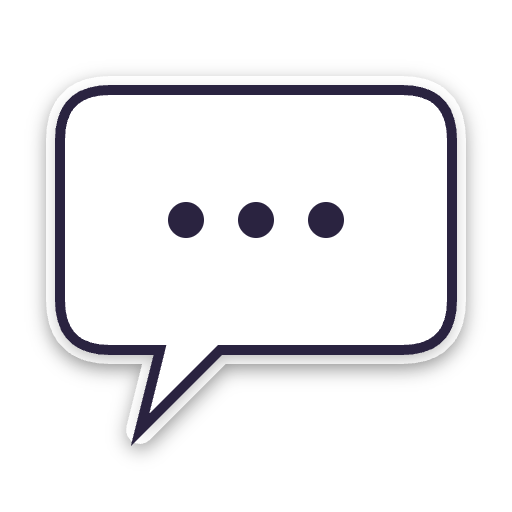
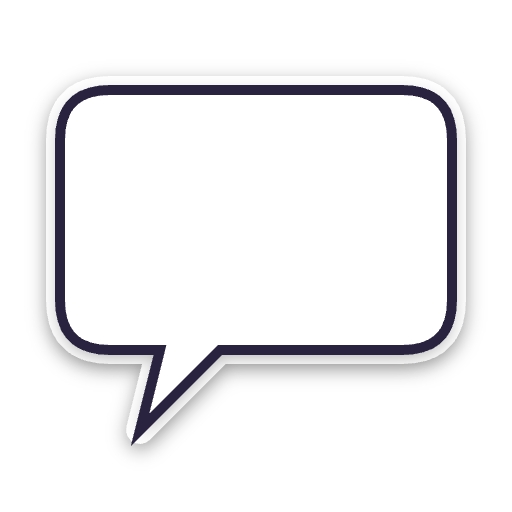
Library: drop the items sorted out, fix two stickers, neon heart without its stand
Removed from the list (files stay, scenes and tests still use some): the six originals, the video loops,
the made-in-code models, 7 floating effects, 4 Poly Haven models and 20 of the dancing creatures.
Speech bubble without the three dots; butterfly with antennae; neon heart is the pink tube alone.

Changed region(s): [[0.5938, 0.375, 0.6875, 0.4688], [0.3125, 0.375, 0.4062, 0.4688], [0.4688, 0.375, 0.5312, 0.4688]]

diff --git a/studio/library.js b/studio/library.js
@@ -1,31 +1,22 @@
 /* Starter library. Selection copies an asset into the current local experience, so export/import does not
-   depend on a future catalog fetch. Groups: the original items, CC0 3D models from Poly Haven (packed to
+   depend on a future catalog fetch. Groups: CC0 3D models from Poly Haven (packed to
    GLB at 1K textures), animated CC0 models by Quaternius, particle styles and stickers drawn in code
-   (tools/make-graphics.cjs), video loops rendered from the user's own Styles studio (720×720, with music), and
-   floating light effects drawn in code on black (tools/make-effects.cjs), added with the soft black (glow) key.
+   (tools/make-graphics.cjs), ready scenes, and floating, weather and cosmic effects as 3D models.
    Credits and sources: library/README.md. */
 window.StarterLibrary = (() => {
-  const originals = [
-    {id:'star',name:'כוכב זהוב',detail:'תמונה שקופה · PNG',kind:'image',file:'star.png',thumb:'star.png'},
-    {id:'ring',name:'טבעת סגולה',detail:'תמונה שקופה · PNG',kind:'image',file:'ring.png',thumb:'ring.png'},
-    {id:'pulse',name:'טבעת פועמת',detail:'אנימציה שקופה · GIF',kind:'image',file:'pulse.gif',thumb:'pulse.gif'},
-    {id:'bell',name:'פעמון עדין',detail:'צליל מקורי · 1.2 שניות',kind:'sound',file:'bell.wav',icon:'♪'},
-    {id:'orbit',name:'מסלול אור',detail:'סרטון מקורי · 2 שניות · ללא צליל',kind:'video',file:'orbit.mp4',thumb:'orbit-poster.png'},
-    {id:'gem',name:'אבן סגולה',detail:'תלת-ממד · GLB',kind:'model',file:'gem.glb',icon:'◇'}
-  ].map((e) => ({...e, group:'original'}));
   // Poly Haven (CC0): [file id, Hebrew name]
   // Poly Haven models, each with its own looping move added in Blender (tools/make-ph-loops.py) - a rocking chair
   // rocks, clock hands tick, a kettle steams - except the frame, which holds the user's artwork and stays still
   const STILL = new Set(['fancy_picture_frame_01']);
   const ANIMAL = new Set(['street_rat']);  // listed with the animals
   const models = [
-    ['fancy_picture_frame_01','מסגרת מוזהבת מעוטרת'],['ornate_mirror_01','מראה מעוטרת'],['marble_bust_01','פסל ראש משיש'],
+    ['fancy_picture_frame_01','מסגרת מוזהבת מעוטרת'],['marble_bust_01','פסל ראש משיש'],
     ['horse_statue_01','פסל סוס'],['concrete_cat_statue','פסל חתול מבטון'],['carved_wooden_elephant','פיל מגולף מעץ'],
     ['garden_gnome','גמד גינה'],['rubber_duck_toy','ברווז גומי'],['lantern_01','פנס ישן'],['wooden_lantern_01','פנס עץ'],
     ['brass_diya_lantern','מנורת שמן מפליז'],['chinese_chandelier','נברשת סינית'],['lightbulb_01','נורה'],
     ['antique_ceramic_vase_01','כד קרמיקה עתיק'],['ceramic_vase_01','כד קרמיקה'],['brass_goblets','גביעי פליז'],
-    ['wine_bottles_01','בקבוקי יין'],['potted_plant_04','צמח בעציץ'],['fern_02','שרך'],['anthurium_botany_01','שיח עלים מבריקים'],
-    ['flower_gazania','פרח גזניה'],['food_pomegranate_01','רימון'],['food_apple_01','תפוח'],['lemon','לימון'],['croissant','קרואסון'],
+    ['wine_bottles_01','בקבוקי יין'],['potted_plant_04','צמח בעציץ'],
+    ['food_pomegranate_01','רימון'],['food_apple_01','תפוח'],['lemon','לימון'],['croissant','קרואסון'],
     ['carrot_cake','עוגת גזר'],['ukulele_01','יוקללה'],['boombox','רדיו־טייפ'],['cassette_player','ווקמן'],['camera_01','מצלמה ישנה'],
     ['television_01','טלוויזיה ישנה'],['alarm_clock_01','שעון מעורר'],['mantel_clock_01','שעון אח'],['dartboard','לוח חיצים'],
     ['football','כדור כדורגל ישן'],['armchair_01','כורסה ויקטוריאנית'],
@@ -55,22 +46,12 @@ window.StarterLibrary = (() => {
   const scans = [
     ['sk-gramophone','גרמופון עם תקליט מסתובב',.5]
   ].map(([id,name,w]) => ({id,name,detail:'תלת־ממד בתנועה · סריקה חינמית (CC0)',kind:'model',file:'models/'+id+'.glb',thumb:'thumbs/'+id+'.png',clip:'Loop',w,group:'model'}));
-  // Rendered from the Styles studio: [style id, Hebrew name, seconds]
-  const loops = [
-    ['synthwave','סינת׳ווייב',10],['bauhaus','באוהאוס',8],['stained-glass','ויטראז׳',9],['dark-tech','טכנולוגיה על שחור',9],
-    ['lowpoly-island','אי לואו־פולי',10],['impasto-oil','צבע שמן עבה',9],['ukiyo-wave','אוקיו־אה',9],['sand-painting','ציור בחול',10]
-  ].map(([id,name,sec]) => ({id:'loop-'+id,name,detail:'לולאת וידאו · '+sec+' שניות · עם מוזיקה',kind:'video',file:'loops/'+id+'.mp4',thumb:'thumbs/loop-'+id+'.jpg',group:'loop'}));
   // Animated CC0 models by Quaternius (packed to GLB): [file id, Hebrew name, the move they start on, start width]
   const animated = [
     ['q-alpaca','אלפקה','Idle',.5],['q-bull','שור','Idle',.55],['q-cow','פרה','Eating',.55],['q-deer','איילה','Idle',.5],
     ['q-donkey','חמור','Idle',.5],['q-fox','שועל','Idle',.5],['q-horse','סוס','Idle',.55],['q-horse_white','סוס לבן','Idle',.55],
     ['q-husky','האסקי','Idle',.5],['q-shibainu','כלב שיבה','Idle',.5],['q-stag','אייל','Idle',.55],['q-wolf','זאב','Idle',.5],
-    ['qm-alien','חייזר','Dance',.35],['qm-alien_tall','חייזר גבוה','Dance',.35],['qm-bat','עטלף','Flying',.35],['qm-bee','דבורה','Flying',.35],
-    ['qm-cactus','קקטוס','Dance',.35],['qm-chicken','אפרוח','Dance',.35],['qm-crab','סרטן','Dance',.35],['qm-cthulhu','תמנון מעופף','Flying',.35],
-    ['qm-cyclops','ענק חד־עין','Dance',.35],['qm-deer','אייל קטן','Dance',.35],['qm-demon','שדון אדום','Dance',.35],['qm-ghost','רוח רפאים','Dance',.35],
-    ['qm-greendemon','שדון ירוק','Dance',.35],['qm-mushroom','פטרייה','Dance',.35],['qm-panda','פנדה','Dance',.35],['qm-penguin','פינגווין','Dance',.35],
-    ['qm-pig','חזיר','Dance',.35],['qm-skull','גולגולת','Dance',.35],['qm-tree','עץ','Dance',.35],['qm-yellowdragon','דרקון צהוב','Flying',.35],['qm-yeti','יטי','Dance',.35]
-    ,
+    ['qm-penguin','פינגווין','Dance',.35],
     // converted from the packs' FBX with the editor's own converter (AssimpJS): fish, dinosaurs, farm animals, robot
     ['qf-dolphin','דולפין','Armature|Swim',.45],['qf-fish1','דג ים ורוד','Armature|Swim',.4],['qf-fish3','דג פסים כתום','Armature|Swim',.35],
     ['qf-manta_ray','טריגון מנטה','Armature|Swim',.5],['qf-shark','כריש','Armature|Swim',.5],['qf-whale','לווייתן','Armature|Swim',.6],['qf-fish2','דג כחול־צהוב','Armature|Swim.001',.35],
@@ -106,11 +87,6 @@ window.StarterLibrary = (() => {
     ['heart','לב'],['sparkle','ניצוץ'],['speech','בועת דיבור'],['arrow','חץ'],['cloud','ענן'],['rainbow','קשת בענן'],
     ['sun','שמש'],['moon','ירח'],['flower','פרח'],['crown','כתר'],['star','כוכב'],['butterfly','פרפר']
   ].map(([id,name]) => ({id:'st-'+id,name,detail:'מדבקה · תמונה שקופה',kind:'image',file:'stickers/'+id+'.png',thumb:'thumbs/st-'+id+'.png',group:'sticker'}));
-  // Original animated models built in code (tools/make-models.mjs): one looping clip "Loop" each
-  const made = [
-    ['m-solar','מערכת שמש',.75],['m-balloons','בלונים מרחפים',.7],['m-star-mobile','מובייל כוכבים',.7],
-    ['m-gems','אבני חן במסלול',.5],['m-dreidel','סביבון מסתובב',.35],['m-flower','פרח נפתח',.35]
-  ].map(([id,name,w]) => ({id,name,detail:'תלת־ממד בתנועה · מקורי',kind:'model',file:'models/'+id+'.glb',thumb:'thumbs/'+id+'.png',clip:'Loop',w,group:'made'}));
   // Ready scenes: several layers in one tap, each with its own looping path (timeline keys) and move. Paths are
   // sampled from a function of the loop phase f (0..1); x/y in artwork units (0 = centre), z = depth toward the viewer.
   const path = (dur, n, fn) => ({ loop: true, ease: 'linear', keys: [...Array(n + 1)].map((_, i) => Object.assign({ t: +(dur * i / n).toFixed(3) }, fn(i / n))) });
@@ -149,9 +125,9 @@ window.StarterLibrary = (() => {
   // The floating effects as 3D models (tools/make-real-models.py, outside this repository): glow is unlit colour in
   // translucent shells, one looping clip "Loop" each: [file id, Hebrew name, start width]
   const fx3d = [
-    ['plasma','כדור פלזמה בתלת־ממד',.35],['neon-love','שלט ניאון: אהבה',.5],['neon-mazal','שלט ניאון: מזל טוב',.6],['neon-heart','לב ניאון פועם',.4],
-    ['retro-sun','שמש רטרו ורשת',.6],['fireworks','זיקוקים',.7],['light-rays','קרני אור צבעוניות',.7],['portal','שער קסם מאבן',.5],
-    ['aurora','זוהר צפוני',.8],['flames','מדורה',.45],['enso','מעגל מכחול',.5],['bauhaus','צורות באוהאוס',.65],['warp','קפיצה לחלל',.7]
+    ['neon-heart','לב ניאון פועם',.4],
+    ['fireworks','זיקוקים',.7],['light-rays','קרני אור צבעוניות',.7],
+    ['aurora','זוהר צפוני',.8],['flames','מדורה',.45],['warp','קפיצה לחלל',.7]
   ].map(([id,name,w]) => ({id:'fx3d-'+id,name,detail:'אפקט מרחף · תלת־ממד · לולאה',kind:'model',file:'models/fx3d-'+id+'.glb',thumb:'thumbs/fx3d-'+id+'.png',clip:'Loop',w,group:'fx'}));
   // Weather and cosmic effects as 3D models, built the same way (clouds are whole metaball shapes with a soft skin)
   const w3d = [
@@ -164,8 +140,8 @@ window.StarterLibrary = (() => {
     ['k-galaxy','גלקסיה ספירלית',.7],['k-dna','סליל DNA',.3],['k-gyro','טבעות מסתובבות',.5],['k-sphere','כדור חלקיקים נושם',.45],
     ['k-terrain','נוף קווים',.9],['k-constellation','קבוצת כוכבים',.7],['k-orb','כדור קוסמי',.45],['k-fibres','מנורת סיבים אופטיים',.45]
   ].map(([id,name,w]) => ({id:'fx3d-'+id,name,detail:'חלל · תלת־ממד · לולאה',kind:'model',file:'models/fx3d-'+id+'.glb',thumb:'thumbs/fx3d-'+id+'.png',clip:'Loop',w,group:'cosmic'}));
-  const entries = [...originals, ...scenes, ...fx3d, ...w3d, ...k3d, ...made, ...models, ...scans, ...animated, ...stickers, ...loops];
-  const groups = [['all','הכול'],['scene','סצנות בתנועה'],['fx','אפקטים מרחפים'],['weather','מזג אוויר'],['cosmic','חלל וחלקיקים'],['made','מקוריים בתנועה'],['model','תלת־ממד'],['animal','חיות בתנועה'],['sea','ים'],['dino','דינוזאורים'],['creature','דמויות'],['sticker','מדבקות'],['loop','לולאות וידאו'],['original','מקוריים']];
+  const entries = [...scenes, ...fx3d, ...w3d, ...k3d, ...models, ...scans, ...animated, ...stickers];
+  const groups = [['all','הכול'],['scene','סצנות בתנועה'],['fx','אפקטים מרחפים'],['weather','מזג אוויר'],['cosmic','חלל וחלקיקים'],['model','תלת־ממד'],['animal','חיות בתנועה'],['sea','ים'],['dino','דינוזאורים'],['creature','דמויות'],['sticker','מדבקות']];
   const MIME = {glb:'model/gltf-binary',mp4:'video/mp4',png:'image/png',gif:'image/gif',wav:'audio/wav'};
   async function open(importAsset) {
     const dialog = document.createElement('dialog'); dialog.id='starter-library'; dialog.dir='rtl';
@@ -173,7 +149,7 @@ window.StarterLibrary = (() => {
     const title=document.createElement('h2');title.textContent='ספריית התחלה';
     const close=document.createElement('button');close.textContent='סגירה';close.className='ghost';close.onclick=()=>dialog.close();
     head.append(title,close);dialog.append(head);
-    const note=document.createElement('p');note.className='hint';note.textContent=entries.length+' פריטים. נגיעה בפריט מוסיפה אותו ליצירה: מודלים חינמיים (CC0), גם בתנועה, אפקטים מרחפים, מזג אוויר, מדבקות, לולאות מהסטודיו שלך ופריטים מקוריים. נשמרים עם היצירה במכשיר, בלי חשבון ובלי תשלום.';dialog.append(note);
+    const note=document.createElement('p');note.className='hint';note.textContent=entries.length+' פריטים. נגיעה בפריט מוסיפה אותו ליצירה: מודלים חינמיים (CC0), גם בתנועה, אפקטים מרחפים, מזג אוויר ומדבקות. נשמרים עם היצירה במכשיר, בלי חשבון ובלי תשלום.';dialog.append(note);
     const filters=document.createElement('div');filters.className='library-filters';filters.setAttribute('role','group');filters.setAttribute('aria-label','סוג פריט');dialog.append(filters);
     const grid=document.createElement('div');grid.className='library-grid';dialog.append(grid);
     const status=document.createElement('p');status.setAttribute('role','status');dialog.append(status);

diff --git a/studio/index.html b/studio/index.html
@@ -91,7 +91,7 @@
   <aside id="inspector" aria-label="הגדרות"></aside>
 </div>
 
-<script src="library.js?v=rc125"></script>
+<script src="library.js?v=rc126"></script>
 <script src="vendor/gifanim.js"></script>
 <script src="actions.js?v=rc94"></script>
 <script crossorigin="anonymous" src="./external/scripts/8frame-1.5.0.min.js"></script>
